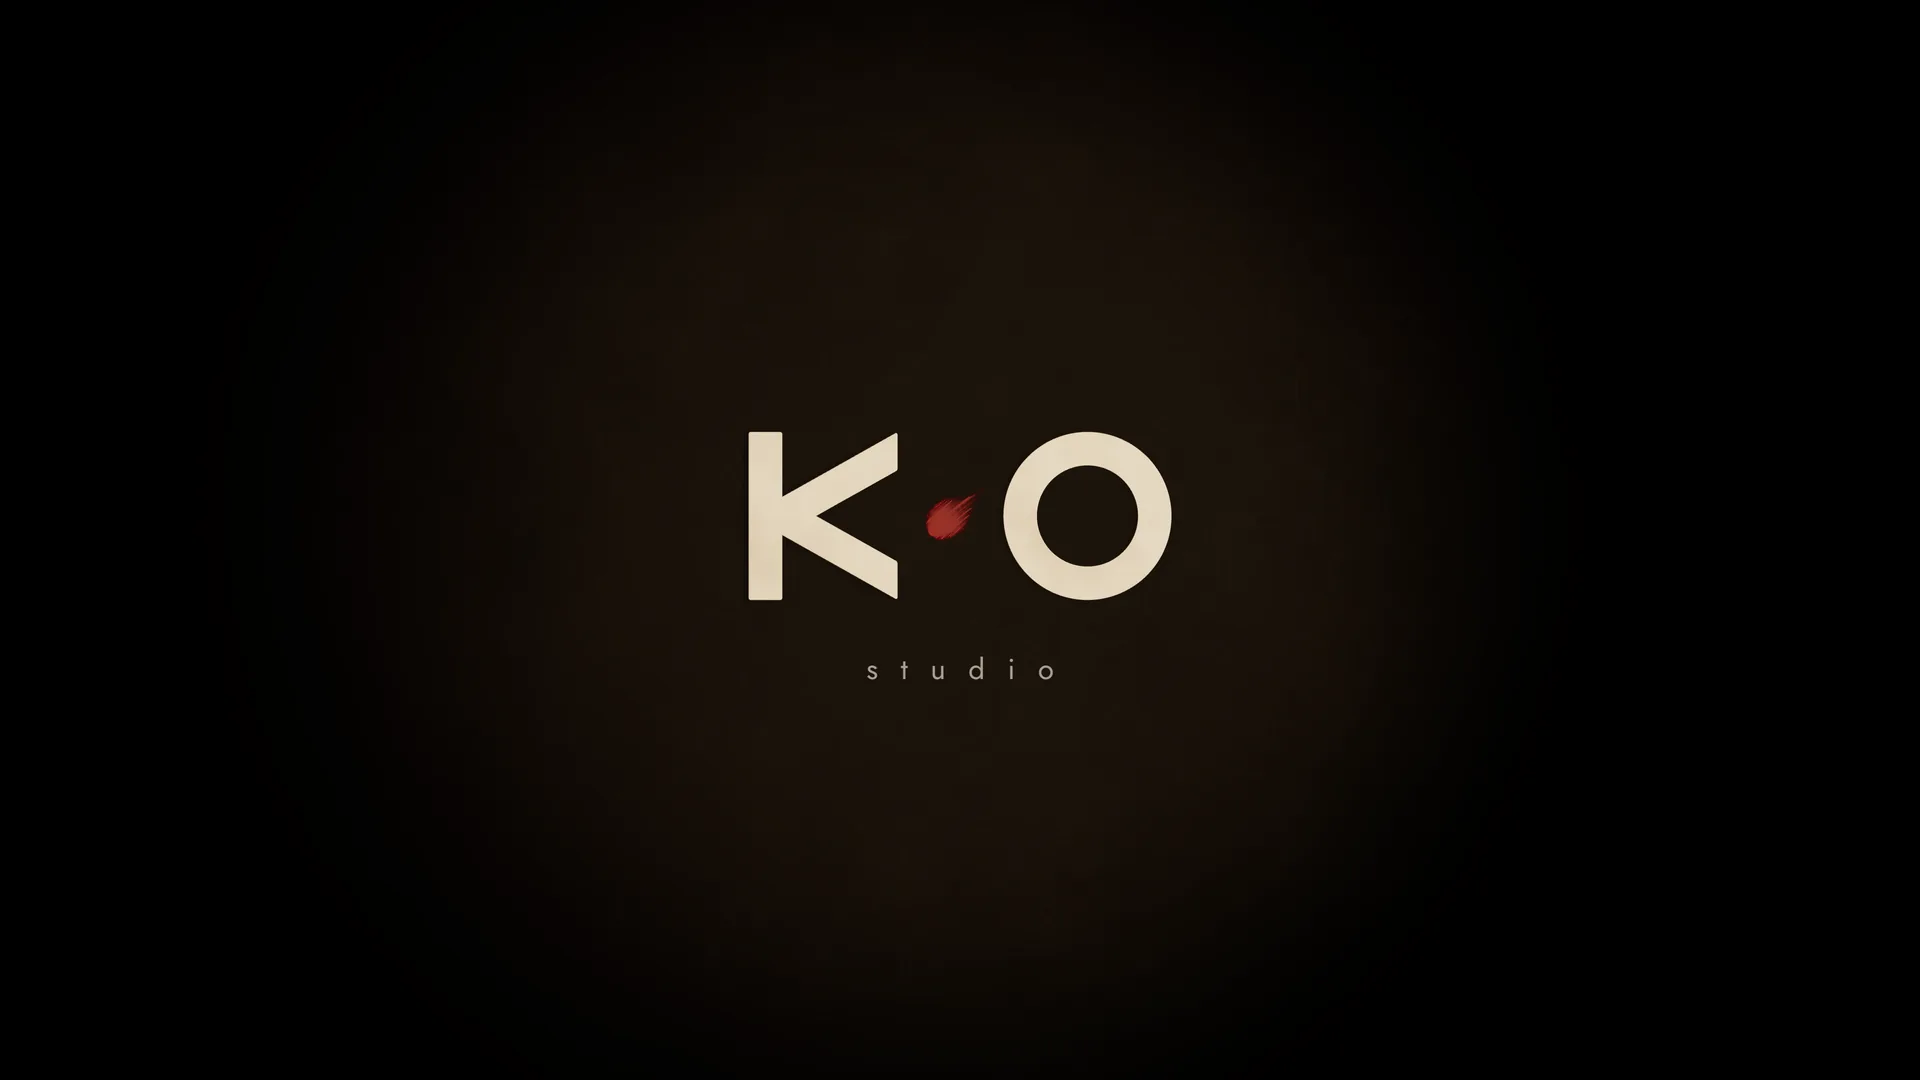
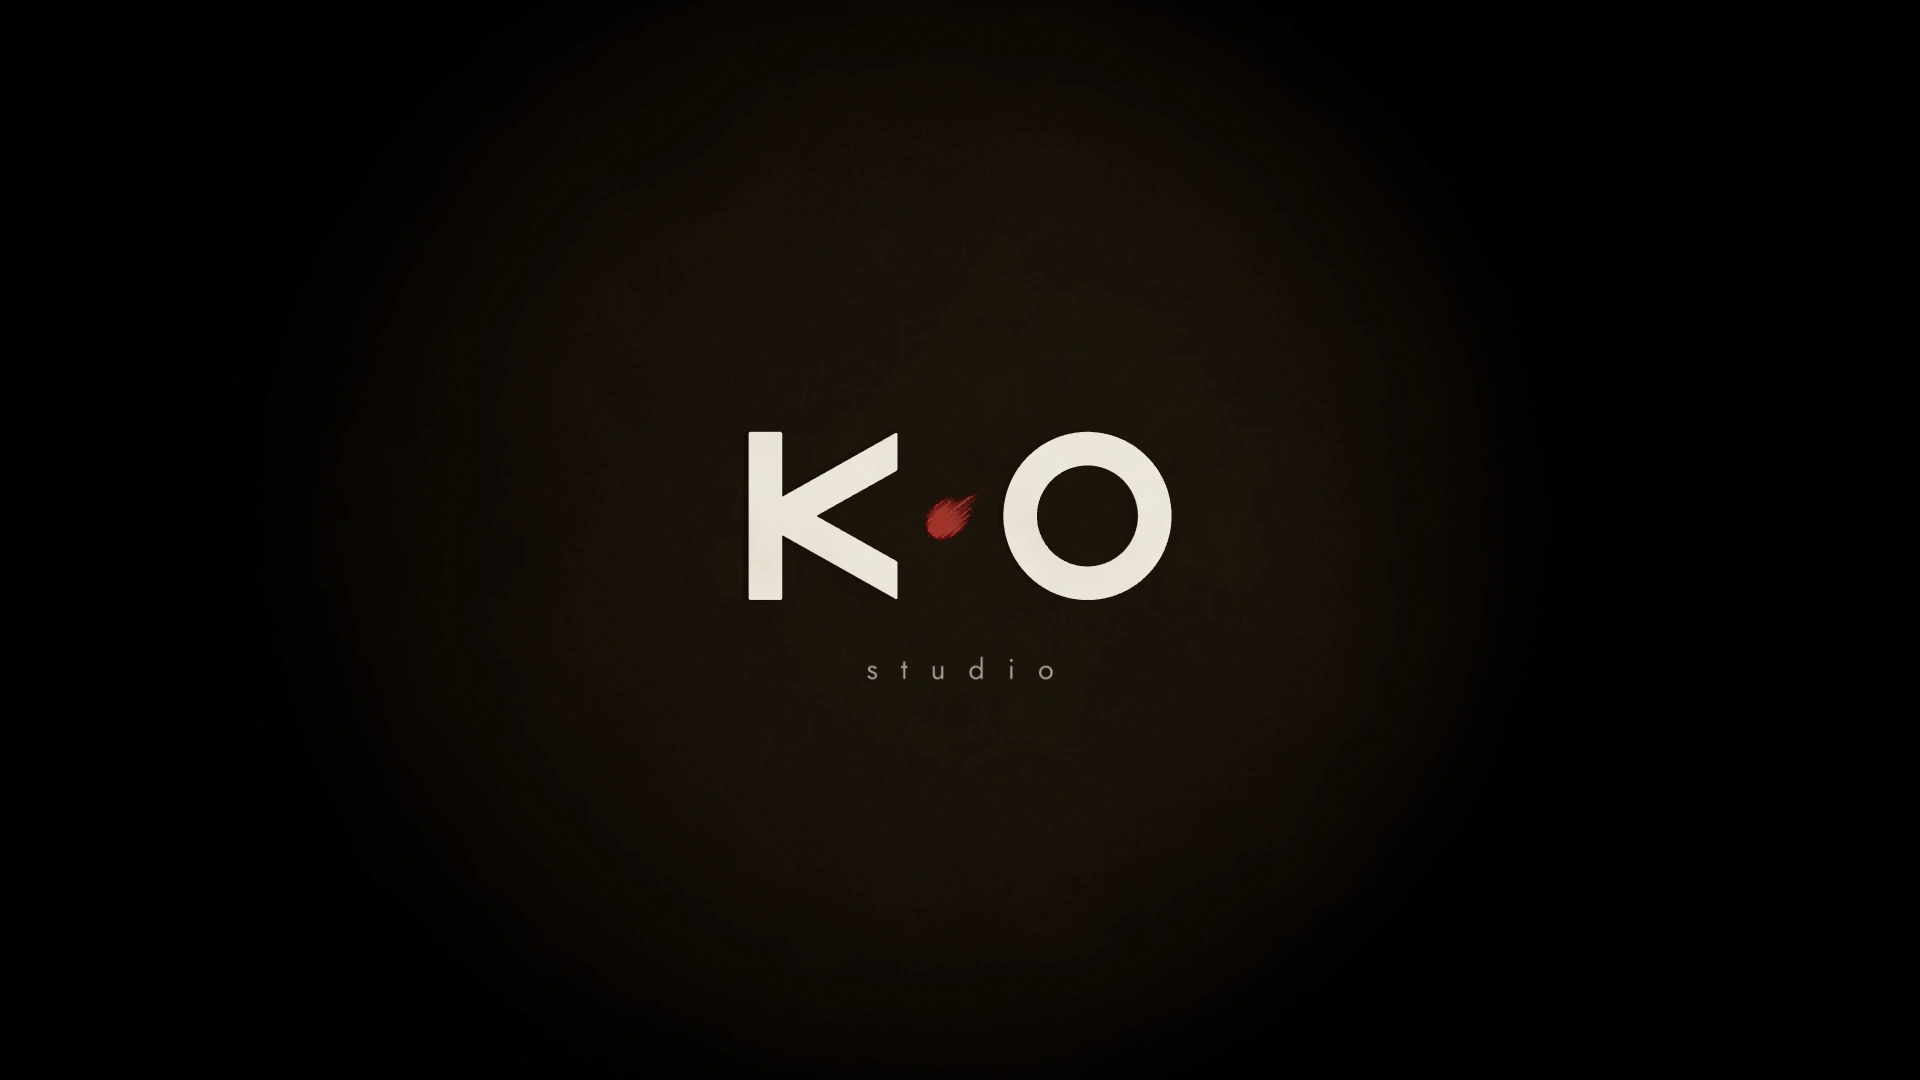
feat: hero still rendered from intro, layout checks

Changed region(s): [[0.5, 0.3972, 0.625, 0.55], [0.375, 0.3972, 0.4688, 0.55]]

diff --git a/tests/browser/layout.test.js b/tests/browser/layout.test.js
@@ -1,0 +1,53 @@
+import { test, assert, openPage } from './harness.js';
+
+const SIZES = [[360, 780], [390, 844], [844, 390], [1280, 800], [1366, 657], [1536, 730], [1920, 969], [1920, 1080], [2560, 1080]];
+
+test('menu sits below studio label at every size', async () => {
+  for (const [w, h] of SIZES) {
+    const { doc, close } = await openPage('/?nointro', { width: w, height: h });
+    const frameH = Math.max(h, w * 9 / 16), labelBottom = h / 2 + 0.1356 * frameH;
+    const m = doc.querySelector('.title-menu').getBoundingClientRect();
+    assert(m.top >= labelBottom + 8, `${w}x${h}: menu ${m.top} label ${labelBottom}`);
+    assert(m.bottom <= h - 8, `${w}x${h}: menu off screen (${m.bottom})`);
+    assert(m.right <= w && m.left >= 0, `${w}x${h}: menu wraps out`);
+    close();
+  }
+}, { timeout: 30000 });
+
+function toPixels(source, w, h, draw) {
+  const c = Object.assign(document.createElement('canvas'), { width: w, height: h });
+  const g = c.getContext('2d');
+  draw(g, source);
+  return g.getImageData(0, 0, w, h).data;
+}
+const coverDraw = (w, h) => (g, img) => {
+  const s = Math.max(w / img.naturalWidth, h / img.naturalHeight);
+  const dw = img.naturalWidth * s, dh = img.naturalHeight * s;
+  g.drawImage(img, (w - dw) / 2, (h - dh) / 2, dw, dh);
+};
+// Mean luminance difference over the pixels that are lit in either image (letters, dot, label, floor
+// under the lamp). The dark background would otherwise hide any mismatch in the logo itself.
+function meanAbsDiff(a, b) {
+  let sum = 0, n = 0;
+  for (let i = 0; i < a.length; i += 4) {
+    const la = 0.2126 * a[i] + 0.7152 * a[i + 1] + 0.0722 * a[i + 2];
+    const lb = 0.2126 * b[i] + 0.7152 * b[i + 1] + 0.0722 * b[i + 2];
+    if (Math.max(la, lb) <= 40) continue;
+    sum += Math.abs(la - lb); n++;
+  }
+  return n ? sum / n : 0;
+}
+
+test('live frame matches hero still (landscape and portrait)', async () => {
+  const { renderFrame } = await import('/assets/js/intro/intro.js');
+  const img = new Image();
+  img.src = '/assets/img/hero-1920.webp';
+  await img.decode();
+  for (const [w, h] of [[640, 360], [390, 844]]) {
+    const live = await renderFrame({ width: w, height: h });
+    const a = toPixels(live, w, h, (g, c) => g.drawImage(c, 0, 0));
+    const b = toPixels(img, w, h, coverDraw(w, h));
+    const d = meanAbsDiff(a, b);
+    assert(d < 6, `${w}x${h} diff ${d.toFixed(2)}`);
+  }
+}, { timeout: 60000 });

diff --git a/tools/render-hero.html b/tools/render-hero.html
@@ -1,0 +1,29 @@
+<!doctype html>
+<meta charset="utf-8">
+<title>render hero</title>
+<link rel="stylesheet" href="/assets/css/fonts.css">
+<pre id="results"></pre>
+<script type="module">
+// Renders the intro's T_LOGO frame with the site's own intro.js and saves it through the dev server
+// (.cache/render/hero-<width>.png). Then run: python tools/build_images.py --only hero
+import { renderFrame } from '/assets/js/intro/intro.js';
+
+const out = document.getElementById('results');
+try {
+  for (const [w, h] of [[1920, 1080], [2880, 1620]]) {
+    const canvas = await renderFrame({ width: w, height: h });
+    const blob = await new Promise((r) => canvas.toBlob(r, 'image/png'));
+    const res = await fetch(`/__save__/hero-${w}.png`, { method: 'POST', body: blob });
+    if (!res.ok) throw new Error(`save hero-${w}.png: ${res.status}`);
+    out.textContent += `PASS hero-${w}.png\n`;
+  }
+  out.textContent += 'RESULT: PASS 2/2\n';
+  document.title = 'SAVED';
+} catch (e) {
+  out.textContent += `FAIL ${e.message}\nRESULT: FAIL 1/1\n`;
+  document.title = 'FAIL';
+}
+if (new URLSearchParams(location.search).has('report')) {
+  await fetch('/__results__/render-hero', { method: 'POST', body: out.textContent });
+}
+</script>

diff --git a/tests/browser/layout.html b/tests/browser/layout.html
@@ -1,0 +1,10 @@
+<!doctype html>
+<meta charset="utf-8">
+<title>running</title>
+<link rel="stylesheet" href="/assets/css/fonts.css">
+<pre id="results"></pre>
+<script type="module">
+import { run } from './harness.js';
+import './layout.test.js';
+run();
+</script>

diff --git a/tools/browser_test.py b/tools/browser_test.py
@@ -22,7 +22,9 @@ BROWSERS = [
 
 
 def run_suite(browser, suite, port, timeout):
-    out = RESULTS / f"{suite}.txt"
+    # "ui" -> /__tests__/ui.html; "__tools__/render-hero" -> /__tools__/render-hero.html
+    path = f"/{suite}.html" if suite.startswith("__") else f"/__tests__/{suite}.html"
+    out = RESULTS / f"{suite.rsplit('/', 1)[-1]}.txt"
     out.unlink(missing_ok=True)
     profile = Path(tempfile.mkdtemp(prefix="kostudio-headless-"))
     proc = subprocess.Popen([
@@ -32,7 +34,7 @@ def run_suite(browser, suite, port, timeout):
         # Keep the page "visible" even when the desktop is locked or covered (remote sessions).
         "--disable-features=CalculateNativeWinOcclusion", "--disable-backgrounding-occluded-windows",
         "--disable-renderer-backgrounding", "--disable-background-timer-throttling",
-        f"http://127.0.0.1:{port}/__tests__/{suite}.html?report",
+        f"http://127.0.0.1:{port}{path}?report",
     ], stdout=subprocess.DEVNULL, stderr=subprocess.DEVNULL)
     try:
         end = time.time() + timeout

diff --git a/tools/build_images.py b/tools/build_images.py
@@ -182,7 +182,7 @@ def build_hero():
         src = render / f"hero-{w}.png"
         im = Image.open(src).convert("RGB") if src.exists() else \
             Image.open(BRAND / "KO-studio_logo_3840x2160.png").convert("RGB").resize((w, w * 9 // 16), Image.LANCZOS)
-        save_webp(im, f"hero-{w}.webp", cap)
+        save_webp(im, f"hero-{w}.webp", cap, q=94)
 
 
 if __name__ == "__main__":
